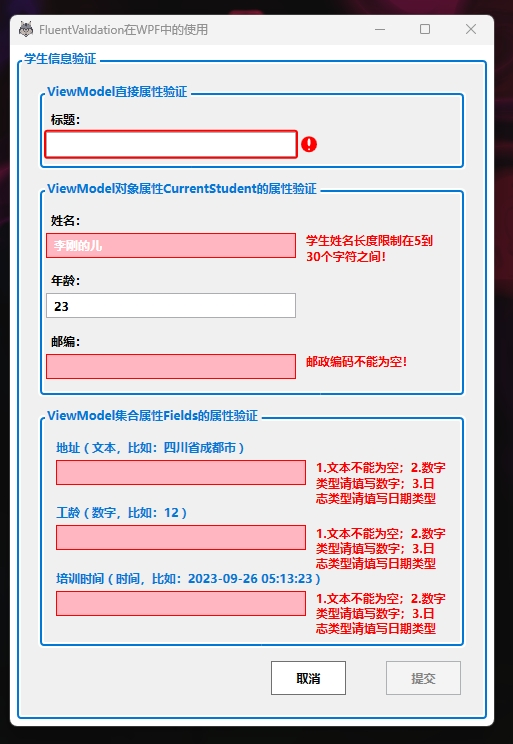
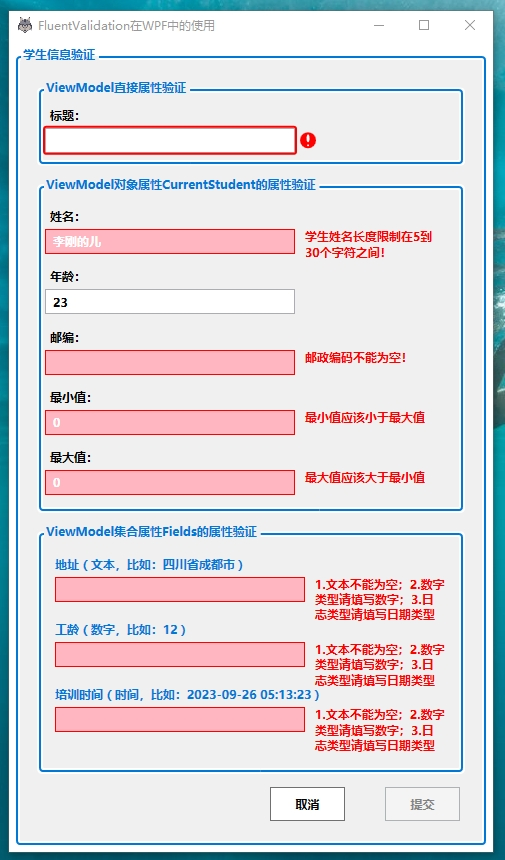
update;

diff --git a/2019/11/Uses-fluent-validation-in-WPF.md b/2019/11/Uses-fluent-validation-in-WPF.md
@@ -3,7 +3,7 @@ title: FluentValidation在C# WPF中的应用
 slug: Uses-fluent-validation-in-WPF
 description: 本文将深入探讨如何在C# WPF项目中运用FluentValidation进行属性验证，并展示如何通过MVVM模式实现这一功能。
 date: 2019-11-19 03:43:13
-lastmod: 2024-01-20 23:43:47
+lastmod: 2024-01-25 05:17:26
 author: 沙漠尽头的狼
 draft: false
 cover: https://img1.dotnet9.com/2019/11/cover_01.png
@@ -50,11 +50,11 @@ tags: WPF,FluentValiatoin
 我创建了两个实体类：Student和Field，分别代表对象属性和集合项属性。这两个类都实现了IDataErrorInfo接口：
 
 1. `IDataErrorInfo`接口常用于提供实体数据验证的错误信息。这个接口包含两个成员：一个索引器（`this[string columnName]`）和一个`Error`属性。索引器用于按属性名称提供错误信息，而`Error`属性则用于提供整个实体的错误概述。
-1. 在ViewModel中实现`IDataErrorInfo`接口，并在`this[string columnName]`索引器和`Error`属性中使用FluentValidation来验证属性。
+1. 两个实体类和另外在后面提及的ViewModel中也实现`IDataErrorInfo`接口，并在`this[string columnName]`索引器和`Error`属性中使用FluentValidation来验证属性。
 
 #### 4.2.1. 普通类 - Student
 
-学生类包含3个属性：名字、年龄、邮政编码。
+学生类包含5个属性：名字、年龄、邮政编码、最小值和最大值，其中最小值和最大值涉及关联验证，即最小值变化后通知最大值验证，反之同理。
 
 ```C#
 /// <summary>
@@ -87,6 +87,33 @@ public class Student : BindableBase, IDataErrorInfo
         set => SetProperty(ref _zip, value);
     }
 
+    private int _minValue;
+
+    public int MinValue
+    {
+        get => _minValue;
+        set
+        {
+            SetProperty(ref _minValue, value);
+
+            // 关联更新最大值验证
+            RaisePropertyChanged(nameof(MaxValue));
+        }
+    }
+
+    private int _maxValue;
+
+    public int MaxValue
+    {
+        get => _maxValue;
+        set
+        {
+            SetProperty(ref _maxValue, value);
+
+            // 关联更新最小值验证
+            RaisePropertyChanged(nameof(MinValue));
+        }
+    }
 
     public string this[string columnName]
     {
@@ -121,7 +148,7 @@ public class Student : BindableBase, IDataErrorInfo
 }
 ```
 
-上面关键代码在`public string this[string columnName]`：这里进行输入表单项的数据校验，`FluentValidation`调用就在这里，校验逻辑封装在`StudentValidator`，表单输入时会实时调用该处代码，`columnName`表示表单项的列名，就是ViewModel绑定的属性名。
+上面关键代码在`public string this[string columnName]`：这里进行输入表单项的数据校验，`FluentValidation`调用就在这里，校验逻辑封装在`StudentValidator`，表单输入时会实时调用该处代码，`columnName`表示表单项的列名，就是View绑定的属性名。
 
 #### 4.2.2. 集合类 - Field
 
@@ -135,7 +162,7 @@ public class Student : BindableBase, IDataErrorInfo
 /// </summary>
 public class Field : BindableBase, IDataErrorInfo
 {
-    private string _value;
+    private string? _value;
     private readonly FieldValidator _validator = new();
 
 
@@ -165,7 +192,7 @@ public class Field : BindableBase, IDataErrorInfo
     /// <summary>
     ///     值
     /// </summary>
-    public string Value
+    public string? Value
     {
         get => _value;
         set => SetProperty(ref _value, value);
@@ -215,14 +242,13 @@ public enum DataType
 
 ### 4.3. 创建验证器
 
-对于每个实体类，我都创建了一个对应的验证器类：StudentValidator和FieldValidator。这些验证器类继承自AbstractValidator，并在其中定义了验证规则。
+对于每个实体类，我都创建了一个对应的验证器类：`StudentValidator`和`FieldValidator`。这些验证器类继承自`AbstractValidator`，并在其中定义了验证规则。验证属性的写法有两种：
 
-> 注：验证属性的写法有两种：
->
-> 1. 可以在实体属性上方添加特性（本文不作特别说明，百度文章介绍很多）；
-> 2. 通过代码的形式添加，如下方，创建一个验证器类，继承自AbstractValidator，在此验证器构造函数中写规则验证属性，方便管理。
+1. 可以在实体属性上方添加特性（本文不作特别说明，百度文章介绍很多）；
 
-本文使用第二种，通过创建`StudentValidator`和`FieldValidator`两个验证器类介绍。
+2. 通过代码的形式添加，如下方，创建一个验证器类，继承自AbstractValidator，在此验证器构造函数中写规则验证属性，方便管理。
+
+本文使用第二种，下面通过创建`StudentValidator`和`FieldValidator`两个验证器类介绍。
 
 #### 4.3.1. StudentValidator
 
@@ -245,27 +271,31 @@ public class StudentValidator : AbstractValidator<Student>
             .ExclusiveBetween(10, 150)
             .WithMessage("请正确输入学生年龄(10-150)");
 
-        RuleFor(vm => vm.Zip)
+        _ = RuleFor(vm => vm.Zip)
             .NotEmpty()
             .WithMessage("邮政编码不能为空！")
             .Must(BeAValidZip)
             .WithMessage("邮政编码由六位数字组成。");
+
+        RuleFor(model => model.MinValue).Must((model, minValue) => minValue < model.MaxValue).WithMessage("最小值应该小于最大值");
+
+        RuleFor(model => model.MaxValue).Must((model, maxValue) => maxValue > model.MinValue).WithMessage("最大值应该大于最小值");
     }
 
-    private static bool BeAValidZip(string zip)
+    private static bool BeAValidZip(string? zip)
     {
-        if (!string.IsNullOrEmpty(zip))
+        if (string.IsNullOrEmpty(zip))
         {
-            var regex = new Regex(@"\d{6}");
-            return regex.IsMatch(zip);
+            return false;
         }
 
-        return false;
+        var regex = new Regex(@"\d{6}");
+        return regex.IsMatch(zip);
     }
 }
 ```
 
-代码简单，使用到数字的大小和范围验证（见Age）、字符串不能为空和长度限制（见Name）、字符串正则表达式验证（见Zip）。
+代码简单，使用到数字的大小和范围验证（见Age）、字符串不能为空和长度限制（见Name）、字符串正则表达式验证（见Zip）、多属性关联验证（最小值和最大值，这里配合属性`set`时通知其他属性验证通知`RaisePropertyChanged(nameof(MaxValue));`）。
 
 #### 4.3.2. FieldValidator
 
@@ -277,9 +307,9 @@ public class FieldValidator : AbstractValidator<Field>
     public FieldValidator()
     {
         RuleFor(field => field.Value)
-            .Must((field, value) => (field.Type == DataType.Text && !string.IsNullOrWhiteSpace(field.Value))
-                                    || (field.Type == DataType.Number && double.TryParse(field.Value, out var _))
-                                    || (field.Type == DataType.Date && DateTime.TryParse(field.Value, out var _)))
+            .Must((field, value) => (field.Type == DataType.Text && !string.IsNullOrWhiteSpace(value))
+                                    || (field.Type == DataType.Number && double.TryParse(value, out _))
+                                    || (field.Type == DataType.Date && DateTime.TryParse(value, out _)))
             .WithMessage("1.文本不能为空；2.数字类型请填写数字；3.日志类型请填写日期类型");
     }
 }
@@ -291,11 +321,11 @@ public class FieldValidator : AbstractValidator<Field>
 2. 数字数据类型，必须是`double`类型；
 3. 日期类型，必须能使用`DateTime`转换；
 
-本文只做简单演示，可按实际情况修改。
+本文只做简单演示，多种数据类型放`Must`方法中做统一验证，验证出错给出统一的提示信息，读者可按实际情况修改。
 
 #### 4.3.3. StudentViewModelValidator
 
-此外，我们还创建了一个StudentViewModelValidator，用于验证ViewModel层的属性。这个验证器能够处理基本数据类型、对象属性以及集合属性的验证。
+此外，我还创建了一个`StudentViewModelValidator`，用于验证`ViewModel`层的属性。这个验证器能够处理基本数据类型、对象属性以及集合属性的验证。
 
 ```csharp
 public class StudentViewModelValidator : AbstractValidator<StudentViewModel>
@@ -477,7 +507,7 @@ private void Validate(object sender, PropertyChangedEventArgs e)
 
 ### 4.5. 视图层实现
 
-在视图层，我创建了一个用户控件StudentView，用于显示输入表单和验证结果。通过绑定ViewModel层的属性和命令，视图层能够与ViewModel层进行交互，并实时显示验证错误。这里比较简单，提供简单属性标题(Title)、复杂属性(包括学生姓名(CurrentStudent.Name)、学生年龄( CurrentStudent .Age)、学生邮政编码( CurrentStudent .Zip)）验证、集合属性验证，xaml代码如下：
+在视图层，我创建了一个用户控件`StudentView`，用于显示输入表单和验证结果。通过绑定`ViewModel`层的属性和命令，视图层能够与`ViewModel`层进行交互，并实时显示验证错误。这里比较简单，提供简单属性标题(Title)、复杂属性(包括学生姓名(CurrentStudent.Name)、学生年龄( CurrentStudent .Age)、学生邮政编码( CurrentStudent .Zip)、最小值(CurrentStudent.MinValue)、最大值(CurrentStudent.MaxValue)）验证、集合属性验证(Fields)，`xaml`代码如下：
 
 ```xml
 <UserControl
@@ -529,6 +559,16 @@ private void Validate(object sender, PropertyChangedEventArgs e)
                             <Label Content="邮编：" />
                             <TextBox Style="{StaticResource Styles.TextBox.ErrorStyle2}"
                                      Text="{Binding CurrentStudent.Zip, UpdateSourceTrigger=PropertyChanged, ValidatesOnDataErrors=True}" />
+                        </StackPanel>
+                        <StackPanel>
+                            <Label Content="最小值：" />
+                            <TextBox Style="{StaticResource Styles.TextBox.ErrorStyle2}"
+                                     Text="{Binding CurrentStudent.MinValue, UpdateSourceTrigger=PropertyChanged, ValidatesOnDataErrors=True}" />
+                        </StackPanel>
+                        <StackPanel>
+                            <Label Content="最大值：" />
+                            <TextBox Style="{StaticResource Styles.TextBox.ErrorStyle2}"
+                                     Text="{Binding CurrentStudent.MaxValue, UpdateSourceTrigger=PropertyChanged, ValidatesOnDataErrors=True}" />
                         </StackPanel>
                     </StackPanel>
                 </GroupBox>
